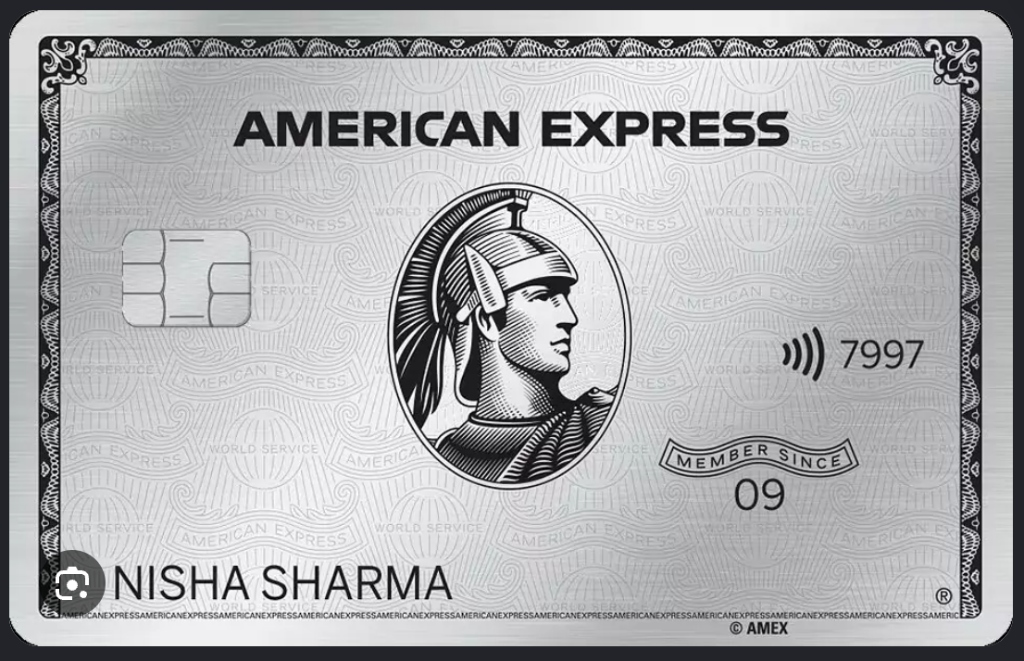
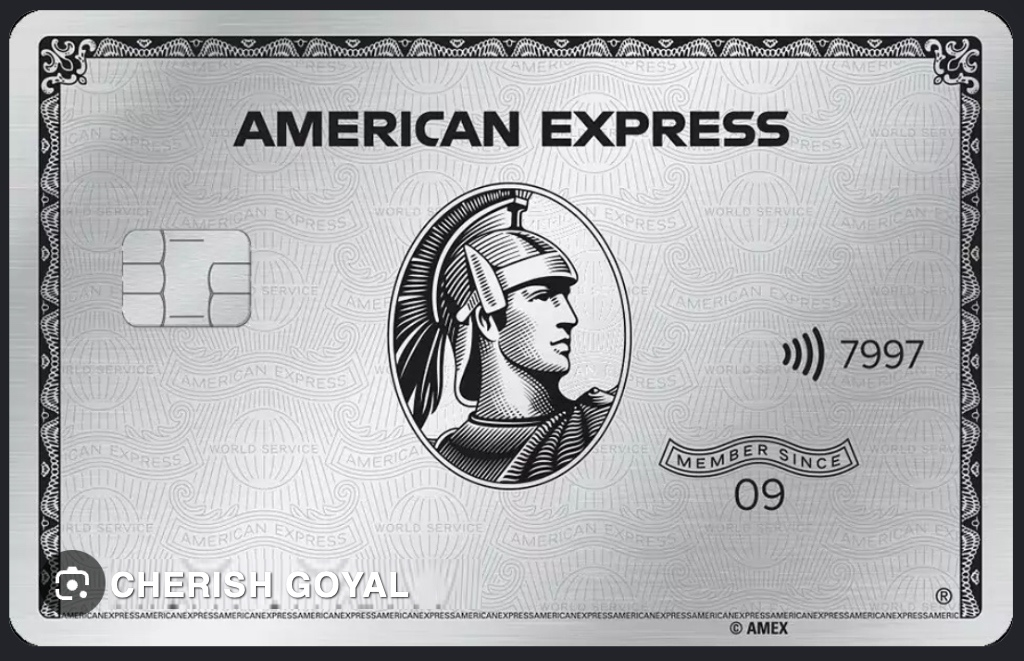
feat: personalize all cards with cardholder name CHERISH GOYAL

Changed region(s): [[0.0938, 0.8472, 0.4688, 0.938]]

diff --git a/src/components/Real3DCard.tsx b/src/components/Real3DCard.tsx
@@ -40,7 +40,7 @@ export function getCardVisuals(card: { id?: string; name?: string; bank?: string
     return {
       front: '/cards/indusind-tiger-front.png',
       back: '/cards/indusind-tiger-back.png',
-      hasPreprintedName: true,
+      hasPreprintedName: false,
       isVertical: true,
     };
   }
@@ -180,7 +180,7 @@ export function getCardVisuals(card: { id?: string; name?: string; bank?: string
     return {
       front: '/cards/flipkart-axis-front.png',
       back: '/cards/axis-flipkart-back.png',
-      hasPreprintedName: true,
+      hasPreprintedName: false,
       isVertical: false,
     };
   }
@@ -200,7 +200,7 @@ export function getCardVisuals(card: { id?: string; name?: string; bank?: string
     return {
       front: '/cards/icici-amazon-pay-front.png',
       back: '/cards/icici-amazon-pay-back.png',
-      hasPreprintedName: true,
+      hasPreprintedName: false,
       isVertical: false,
     };
   }
@@ -381,19 +381,17 @@ export const Real3DCard: React.FC<Real3DCardProps> = ({
               />
             </div>
 
-            {/* Embossed Cardholder Name & Digits overlay (if not preprinted on card) */}
-            {!visuals.hasPreprintedName && (
-              <div className="relative z-20 flex justify-between items-end p-5 sm:p-6 h-full pointer-events-none">
-                <div className="text-left drop-shadow-[0_2px_4px_rgba(0,0,0,0.85)]">
-                  <p className="font-mono text-[11px] sm:text-xs tracking-[0.2em] font-bold text-slate-100/90 drop-shadow">
-                    {showMaskedDetails ? card.cardNumberPreview : '•••• •••• •••• 4821'}
-                  </p>
-                  <p className="text-[10px] sm:text-xs font-black tracking-wider uppercase mt-0.5 text-white drop-shadow">
-                    {cardholderName}
-                  </p>
-                </div>
+            {/* Embossed Cardholder Name & Digits overlay on Every Card */}
+            <div className="relative z-20 flex justify-between items-end p-5 sm:p-6 h-full pointer-events-none">
+              <div className="text-left drop-shadow-[0_2px_4px_rgba(0,0,0,0.85)]">
+                <p className="font-mono text-[11px] sm:text-xs tracking-[0.2em] font-bold text-slate-100/90 drop-shadow">
+                  {showMaskedDetails ? card.cardNumberPreview : '•••• •••• •••• 4821'}
+                </p>
+                <p className="text-[10px] sm:text-xs font-black tracking-wider uppercase mt-0.5 text-white drop-shadow">
+                  {cardholderName}
+                </p>
               </div>
-            )}
+            </div>
 
             {/* Specular Glare Reflection Line (Constantly moving across real card surface in 3D) */}
             <motion.div
@@ -424,8 +422,8 @@ export const Real3DCard: React.FC<Real3DCardProps> = ({
             </div>
 
             {/* Interactive CVV / Masked overlay in signature area */}
-            <div className="relative z-20 flex justify-between items-center px-6 pt-24 pointer-events-none opacity-0 hover:opacity-100 transition-opacity">
-              <div className="font-serif italic text-slate-800 text-xs font-bold drop-shadow">
+            <div className="relative z-20 flex justify-between items-center px-6 pt-24 pointer-events-none">
+              <div className="font-serif italic text-slate-800 text-xs font-bold drop-shadow bg-white/70 px-2 py-0.5 rounded">
                 {cardholderName}
               </div>
               <div className="font-mono text-xs font-black text-slate-900 bg-white/90 px-1.5 py-0.5 rounded shadow">

diff --git a/src/context/AuthContext.tsx b/src/context/AuthContext.tsx
@@ -132,7 +132,7 @@ export const AuthProvider: React.FC<{ children: ReactNode }> = ({ children }) =>
           // If profile table trigger hasn't run yet, provision local object
           setProfile({
             id: userId,
-            fullName: user?.user_metadata?.full_name || 'CARDWATCH Member',
+            fullName: user?.user_metadata?.full_name || 'Cherish Goyal',
             email,
             role: 'customer',
             isVerified: Boolean(user?.email_confirmed_at),
@@ -152,7 +152,7 @@ export const AuthProvider: React.FC<{ children: ReactNode }> = ({ children }) =>
       // Graceful fallback
       setProfile({
         id: userId,
-        fullName: 'CARDWATCH Member',
+        fullName: 'Cherish Goyal',
         email,
         role: 'customer',
         isVerified: true,

diff --git a/src/App.tsx b/src/App.tsx
@@ -107,7 +107,7 @@ export const App: React.FC = () => {
 
   // Active user profile object derived from session
   const activeUserProfile: UserProfile = {
-    name: profile?.fullName || user?.email?.split('@')[0] || (isGuest ? 'Guest Explorer' : 'CARDWATCH Member'),
+    name: profile?.fullName || 'Cherish Goyal',
     phone: '+91 98765 43210',
     salaryMonthly: 120000,
     cibilScore: 780,
